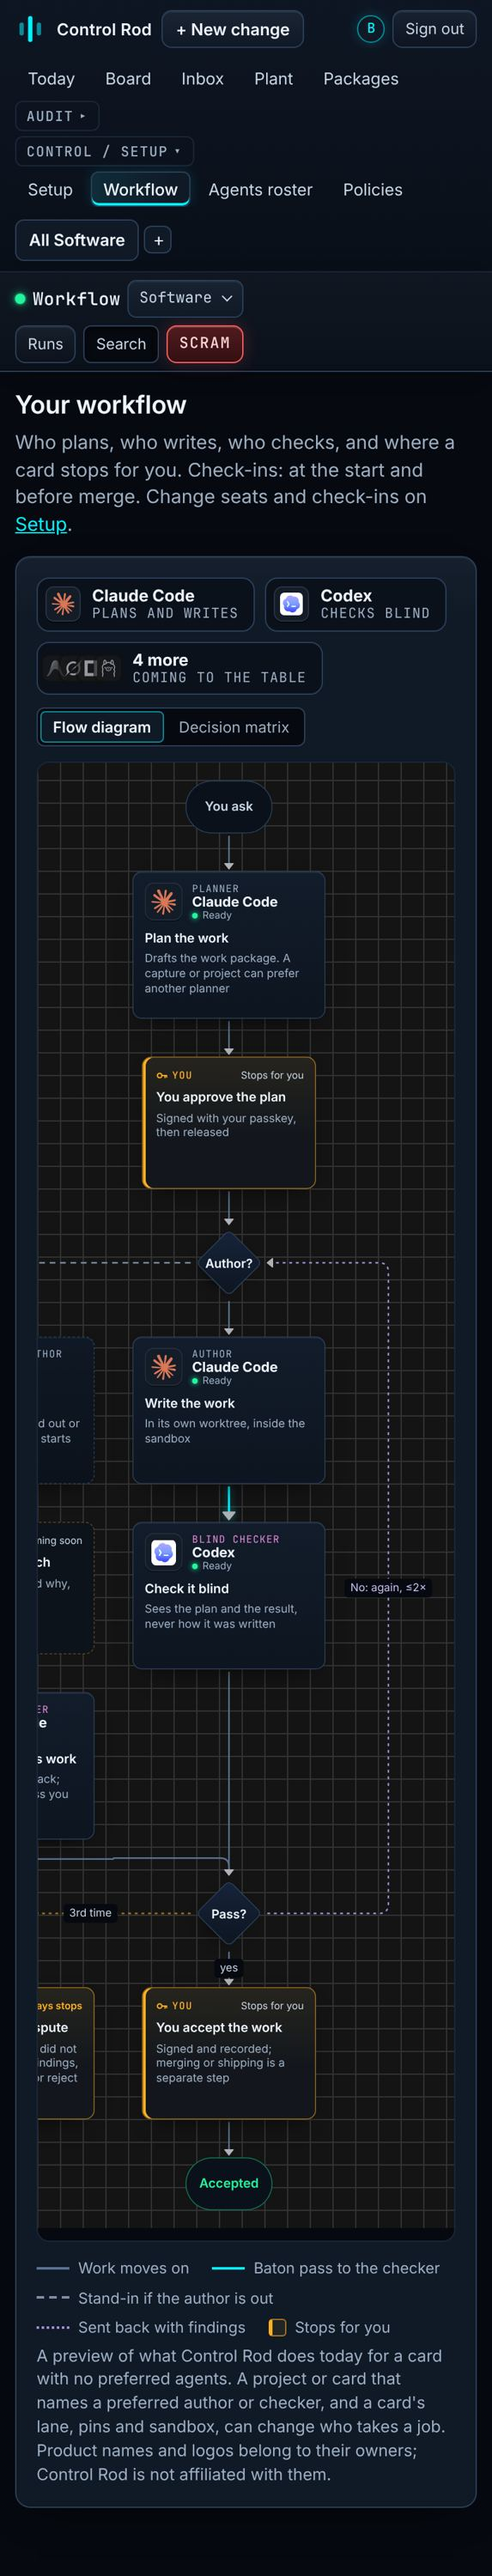
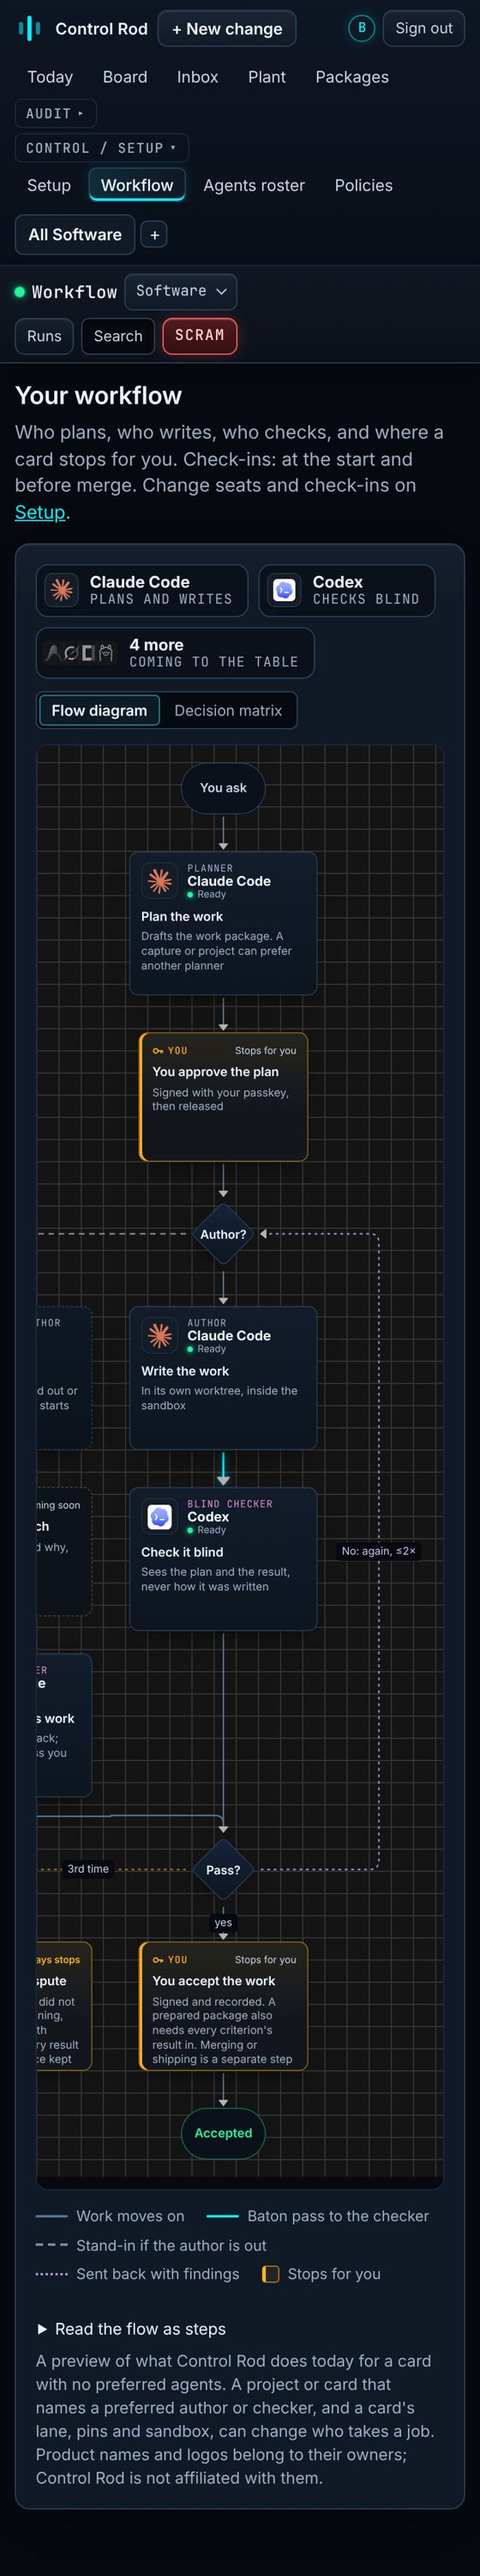
Workflow diagram: round-4 review fixes
Acceptance gates for prepared packages and the limits of accepting with
findings; waits carried into the summary; failed runs after start told
apart from an author out before it; signed release and acceptance named
instead of a merge gate; a visible steps list; the rendered check fails on
a missing block or edge.

Claude-Session: https://claude.ai/code/session_01WRW9hZTgpxiUaaiRC2mRAm

diff --git a/apps/web/src/lib/councilFlow.ts b/apps/web/src/lib/councilFlow.ts
@@ -234,7 +234,7 @@ export function buildCouncilFlow(rows: AgentRow[], checkIn: CheckIn, method?: st
     kind: "you",
     stop: "always",
     title: "You settle the dispute",
-    detail: `After ${CHECK_ROUNDS} checks that did not pass: accept with findings, return to planning or reject`,
+    detail: `After ${CHECK_ROUNDS} checks that did not pass: return to planning, reject, or accept with findings where every result is in and its evidence kept`,
   });
   edge("verdict", "dispute", "no", `${ordinal(CHECK_ROUNDS)} time`);
   steps.push({
@@ -245,7 +245,7 @@ export function buildCouncilFlow(rows: AgentRow[], checkIn: CheckIn, method?: st
     detail:
       checkIn === "start"
         ? "Stays on: skipping it needs a signed standing acceptance, not built yet"
-        : "Signed and recorded; merging or shipping is a separate step",
+        : "Signed and recorded. A prepared package also needs every criterion's result in. Merging or shipping is a separate step",
   });
   edge("verdict", "merge", "yes", "yes");
   steps.push({ id: "ship", kind: "end", title: "Accepted", detail: "Control Rod records your signed acceptance with who wrote, who checked and who signed. Merging or shipping is a separate step you take" });
@@ -260,12 +260,14 @@ export function buildCouncilFlow(rows: AgentRow[], checkIn: CheckIn, method?: st
       who: who(author),
       does: "Produces the deliverable in its own worktree",
       stopsForYou: s.afterAuthor ?? "no",
-      ifItFails: fallback
-        ? `If ${author!.name} is signed out or missing, ${fallback.name} takes the work` +
-          (fallback.ready ? "" : " once it is ready itself") +
-          (fallbackChecker ? "" : `, and its check waits for a vendor other than ${fallback.vendor}`) +
-          ". Logged, flagged fall-over when a run hits its limit is coming."
-        : "The card waits; no other author is seated",
+      ifItFails:
+        (fallback
+          ? `Before it starts: if ${author!.name} is signed out or missing, ${fallback.name} takes the work` +
+            (fallback.ready ? "" : " once it is ready itself") +
+            (fallbackChecker ? "" : `, and its check waits for a vendor other than ${fallback.vendor}`) +
+            ". "
+          : "Before it starts: the card waits; no other author is seated. ") +
+        "Once it has started, a run that fails, stops or loses contact stops for you: requeue it, return it or reject it. Logged, flagged fall-over when a run hits its limit is coming.",
     },
     {
       step: "Check it blind",
@@ -280,28 +282,30 @@ export function buildCouncilFlow(rows: AgentRow[], checkIn: CheckIn, method?: st
             ? `${fallbackChecker.name} checks ${fallback.name}'s work${checksOnReturn ? ` once it is back` : ""}. `
             : `${fallback.name}'s work waits for a vendor other than ${fallback.vendor}. `
           : "") +
-        "A check is never moved to another checker to get a pass.",
+        "A check is never moved to another checker to get a pass. A check run that fails, stops or loses contact stops for you.",
     },
     {
       step: "Settle a dispute",
       who: "you",
       does: `Decides after ${CHECK_ROUNDS} checks that did not pass`,
       stopsForYou: "always",
-      ifItFails: "Accept with findings, return to planning or reject",
+      ifItFails: "Return to planning, reject, or accept with findings; findings can be accepted only where every result is in and its evidence kept",
     },
     {
       step: "Accept the work",
       who: "you",
       does: "Signs acceptance; Control Rod records it. Merging or shipping is a separate step you take",
       stopsForYou: "on",
-      ifItFails: checkIn === "start" ? "Return it or reject it. Skipping this stop needs a signed standing acceptance, which is coming." : "Return it with a note, or reject it",
+      ifItFails:
+        (checkIn === "start" ? "Return it or reject it. Skipping this stop needs a signed standing acceptance, which is coming." : "Return it with a note, or reject it.") +
+        " A pass alone does not clear a prepared package: every criterion needs its result in first.",
     },
     {
       step: "After a fall-back",
       who: "you",
       does: "Sees that another author stepped in",
       stopsForYou: "coming",
-      ifItFails: "Until then you still sign off before merge",
+      ifItFails: "Until then you still sign acceptance on every card",
     },
     { step: "SCRAM or a tripped interlock", who: "you", does: "Stops the affected work", stopsForYou: "always", ifItFails: "Nothing restarts until you reset it" },
     {
@@ -315,11 +319,17 @@ export function buildCouncilFlow(rows: AgentRow[], checkIn: CheckIn, method?: st
 
   const summary = !author
     ? "No agent at the table is ready yet, so new cards wait after you ask."
-    : `You ask, ${author.name} plans, you approve, ${author.name} writes${fallback ? ` (${fallback.name} steps in if it is signed out or missing)` : ""}, ${
+    : `You ask, ${author.name} plans, you approve, ${author.name} writes${
+        fallback ? ` (${fallback.name} steps in if it is signed out or missing${fallback.ready ? "" : ", once it is ready itself"})` : ""
+      }, ${
         checker ? `${checker.name} checks it blind` : "the check waits for a second vendor unless you sign an override"
       }${
-        fallback ? (fallbackChecker ? `, and ${fallbackChecker.name} checks ${fallback.name}'s work` : `, and ${fallback.name}'s work waits for another vendor's check`) : ""
-      }. A fail or an inconclusive verdict starts a new round, with the author picked again, at most ${SEND_BACKS} times; after ${CHECK_ROUNDS} checks that do not pass you settle it. You sign acceptance, and merging or shipping is a separate step.`;
+        fallback
+          ? fallbackChecker
+            ? `, and ${fallbackChecker.name} checks ${fallback.name}'s work${checksOnReturn ? " once it is back" : ""}`
+            : `, and ${fallback.name}'s work waits for another vendor's check`
+          : ""
+      }. A fail or an inconclusive verdict starts a new round, with the author picked again, at most ${SEND_BACKS} times; after ${CHECK_ROUNDS} checks that do not pass you settle it. You sign acceptance (a prepared package also needs every criterion's result in), and merging or shipping is a separate step.`;
 
   return { council, steps, edges, matrix, summary };
 }

diff --git a/apps/web/src/components/WorkflowDiagram.tsx b/apps/web/src/components/WorkflowDiagram.tsx
@@ -105,11 +105,13 @@ export function CouncilStrip({ flow }: { flow: CouncilFlow }) {
   );
 }
 
-/** The flow as text, for screen readers: every step, who takes it, whether it stops, and where it can go next. */
+/** The flow as text, for everyone (keyboard, touch, screen readers): every step, who takes it, whether it stops, and where it can go next. */
 function StepList({ flow }: { flow: CouncilFlow }) {
   const title = (id: string) => flow.steps.find((s) => s.id === id)?.title ?? id;
   return (
-    <ol className="sr-only" aria-label="Workflow steps">
+    <details className="wf-steps">
+      <summary>Read the flow as steps</summary>
+      <ol>
       {flow.steps.map((s) => {
         const next = flow.edges.filter((e) => e.from === s.id);
         return (
@@ -121,7 +123,8 @@ function StepList({ flow }: { flow: CouncilFlow }) {
           </li>
         );
       })}
-    </ol>
+      </ol>
+    </details>
   );
 }
 
@@ -144,7 +147,6 @@ export function WorkflowDiagram({ flow, initialView = "flow" }: { flow: CouncilF
         </div>
       </div>
       <p className="sr-only">{flow.summary}</p>
-      {view === "flow" && <StepList flow={flow} />}
       {view === "flow" ? (
         <>
           <Suspense fallback={<div className="wf-canvas wf-loading" style={{ height: 360 }} aria-hidden="true" />}>
@@ -157,6 +159,7 @@ export function WorkflowDiagram({ flow, initialView = "flow" }: { flow: CouncilF
             <li><span className="wf-key wf-key-sendback" />Sent back with findings</li>
             <li><span className="wf-key wf-key-you" />Stops for you</li>
           </ul>
+          <StepList flow={flow} />
         </>
       ) : (
         <DecisionMatrix flow={flow} />

diff --git a/apps/web/src/lib/councilFlow.test.ts b/apps/web/src/lib/councilFlow.test.ts
@@ -127,6 +127,21 @@ describe("flow", () => {
     expect(f.steps.find((s) => s.id === "fallback")?.seat).toMatchObject({ id: "codex", ready: false });
     expect(f.steps.find((s) => s.id === "fallback")?.detail).toMatch(/until then the card waits/);
     expect(f.steps.find((s) => s.id === "check")?.seat).toBeUndefined();
+    // The summary and the matrix carry the same wait as the diagram.
+    expect(f.summary).toMatch(/Codex steps in if it is signed out or missing, once it is ready itself/);
+    expect(f.matrix.find((r) => r.step === "Write the work")?.ifItFails).toMatch(/once it is ready itself/);
+  });
+
+  it("says a returning author checks the stand-in's work only once it is back, everywhere", () => {
+    const f = buildCouncilFlow(rows({ claude: true, codex: true }), "start-and-merge");
+    expect(f.summary).toMatch(/Claude Code checks Codex's work once it is back/);
+    expect(f.matrix.find((r) => r.step === "Check it blind")?.ifItFails).toMatch(/Claude Code checks Codex's work once it is back/);
+  });
+
+  it("tells a failed run after it starts apart from an author who is out before it starts", () => {
+    const write = buildCouncilFlow(rows({ claude: true, codex: true }), "start-and-merge").matrix.find((r) => r.step === "Write the work")!;
+    expect(write.ifItFails).toMatch(/^Before it starts:/);
+    expect(write.ifItFails).toMatch(/Once it has started, a run that fails, stops or loses contact stops for you/);
   });
 
   it("gives the spend limit its own row, holding new work only", () => {

diff --git a/.nuclear/changes/workflow-diagram/evidence/edges-check.js b/.nuclear/changes/workflow-diagram/evidence/edges-check.js
@@ -63,6 +63,9 @@ const probe = (id, n, f, v) => ({ id, display_name: n, vendor_family: f, install
       return { problems: [...new Set(out)], edges: document.querySelectorAll('.react-flow__edge').length, nodes: nodes.length };
     });
     runs++;
+    // An empty or half-drawn canvas is a failure, not a pass: every step and every edge of the flow must be drawn.
+    const want = ans === 'every-step' ? { nodes: 15, edges: 16 } : { nodes: 13, edges: 14 };
+    if (res.nodes !== want.nodes || res.edges !== want.edges) res.problems.push(`drew ${res.nodes} blocks and ${res.edges} edges, expected ${want.nodes} and ${want.edges}`);
     const tag = `${sc} ${ans} ${w}px: ${res.nodes} blocks, ${res.edges} edges`;
     if (res.problems.length) { bad++; console.log(`FAIL ${tag}\n  ${res.problems.join('\n  ')}`); } else console.log(`ok   ${tag}`);
     await ctx.close();

diff --git a/apps/web/src/components/workflow-diagram.test.tsx b/apps/web/src/components/workflow-diagram.test.tsx
@@ -33,6 +33,15 @@ describe("WorkflowDiagram", () => {
     expect(screen.getByRole("button", { name: "Decision matrix" }).getAttribute("aria-pressed")).toBe("true");
   });
 
+  it("offers the flow as numbered steps that anyone can open", async () => {
+    render(<WorkflowDiagram flow={buildCouncilFlow(rows, "start-and-merge")} />);
+    const toggle = screen.getByText("Read the flow as steps");
+    expect(toggle.tagName).toBe("SUMMARY");
+    await userEvent.click(toggle);
+    expect(toggle.closest("details")?.open).toBe(true);
+    expect(screen.getByText(/Check it blind, Codex/)).toBeTruthy();
+  });
+
   it("has a mark for every built-in agent, served from the app", () => {
     for (const a of AGENTS) {
       expect(AGENT_MARKS[a.id].src).toMatch(/^\/agent-marks\/[a-z]+\.svg$/);

diff --git a/apps/web/src/pages/setup.test.tsx b/apps/web/src/pages/setup.test.tsx
@@ -111,7 +111,7 @@ describe("first-run setup", () => {
     await user.click(screen.getByRole("radio", { name: /Just at the start/ }));
     const back = screen.getByRole("region", { name: "Here's what you're setting up" });
     expect(within(back).getByText(/No agent at the table can work yet/)).toBeTruthy();
-    expect(within(back).getByText(/Check-in preference: just at the start\. Today every card still stops at the start and before merge\./)).toBeTruthy();
+    expect(within(back).getByText(/Check-in preference: just at the start\. Today every card still stops for your signed release at the start and your signed acceptance at the end\./)).toBeTruthy();
     expect(screen.getByText(/Saved for when check-in points arrive/)).toBeTruthy();
     expect(sent).toHaveLength(0);
 

diff --git a/apps/web/src/components/workflow.css b/apps/web/src/components/workflow.css
@@ -502,3 +502,9 @@
   outline: 2px solid var(--accent);
   outline-offset: 2px;
 }
+
+/* The flow as numbered steps, open to everyone: keyboard, touch and screen readers. */
+.wf-steps { margin-top: 10px; font-size: 13px; color: var(--muted, #9aa7b4); }
+.wf-steps > summary { cursor: pointer; width: fit-content; padding: 4px 2px; color: var(--text, #e6edf3); }
+.wf-steps > summary:focus-visible { outline: 2px solid var(--accent, #36c5d8); outline-offset: 2px; border-radius: 4px; }
+.wf-steps ol { margin: 8px 0 0; padding-left: 22px; display: grid; gap: 6px; line-height: 1.45; }

diff --git a/apps/web/src/pages/Setup.tsx b/apps/web/src/pages/Setup.tsx
@@ -81,7 +81,7 @@ export function Setup() {
         <p>{readBack(rows)}</p>
         <p>
           Check-in preference: {choice.label.toLowerCase()}.
-          {!choice.today && " Today every card still stops at the start and before merge."}
+          {!choice.today && " Today every card still stops for your signed release at the start and your signed acceptance at the end."}
         </p>
         {!agents.loading && <WorkflowDiagram flow={buildCouncilFlow(rows, chosenCheckIn)} />}
         {agents.save.error && (

diff --git a/.nuclear/changes/workflow-diagram/verification.md b/.nuclear/changes/workflow-diagram/verification.md
@@ -2,12 +2,13 @@
 
 | Evidence ID | Status | Claim and limit | Artifact |
 |---|---|---|---|
-| E-01 | pass | Web: all tests (863), `tsc` clean, build, license gate. | `evidence/web.log` |
+| E-01 | pass | Web: all tests (867), `tsc` clean, build, license gate. | `evidence/web.log` |
 | E-02 | pass | Screenshots from the dev server with a mocked API: Workflow at 1440 (flow, matrix, every-step with Codex not ready), Setup read-back at 1440, phone at 390. | `evidence/*.jpg` |
 | E-03 | done | Blind review by Codex (gpt-6.2-sol, read-only) on the owner's machine at 7f8fb48: NO-MERGE with 3 P1 and 7 P2. Fixed at the next commit: sign-off shown on in every answer (skipping needs a signed standing acceptance); the stand-in's work goes to its own check node that never uses the stand-in's vendor or the author it replaced, and waits when nobody qualifies; no stand-in when nobody is ready; fall-over wording limited to what the dispatcher does (signed out or missing; flagged fall-over is "coming"); Lobe Icons' full MIT license served beside the marks; preferred-agent caveat on the page; send-back count corrected to 2 (MAX_ROUNDS counts the first attempt); spend limit split from SCRAM as a hold on new work; the canvas remounts when the layout changes; a too-wide canvas is a labelled focusable region and opens scrolled to the main line on a phone; a screen-reader step list covers branches and stops; tests for every answer, no one ready, offline and benched alternatives, and layout across 24 roster/answer/direction cases. Not changed: the owner chose real marks (basis 5); React Flow and dagre notices follow the repo's dependency policy (lockfile and the release SBOM). | PR thread |
 | E-04 | done | Blind review by Codex round 2 at the round-1 fix commit: NO-MERGE with 1 P1, 8 P2, 1 P3. Fixed: the stand-in's check may be the returning author (no longer excluded); an offline stand-in waits until ready; the planner caveat (a capture or project can prefer another planner); retry wording no longer fixes author and checker; a "You see the switch" stop on the stand-in path, and every-step stops say "on every path"; the end is "Accepted" (acceptance records the decision, it does not merge); spend limit belongs to Control Rod and is "coming"; the matrix is a focusable scroll region; the built app ships `third-party-licenses.md` (Vite `build.license`); the phone send-back label is shorter. dagre was dropped for a lane layout so the main line has no gaps. | PR thread |
 | E-05 | done | Blind review by Codex round 3 at 5b7c64a: NO-MERGE with 1 P1, 4 P2, 1 P3. Fixed: branches leave toward their lane and rejoin the main line through a clear gap the layout keeps before the block they join, and the send-back loop clears the tallest block (P1, checked by E-06); every-step stops cover every path (the stand-in's stop shows its work, and "You see the check" sits before the verdict on both checks); a new round goes back to an "Author?" pick, since the dispatcher picks the author again at each claim; the matrix and summary say independence is the default with a signed override, who checks the stand-in's work, and that a fail or an inconclusive verdict both retry; acceptance copy says Control Rod records it and merging or shipping is a separate step. | PR thread |
 | E-06 | pass | Rendered check in Chromium: no edge runs through a block other than its ends, no label overlaps a block or another label, no blocks overlap; 3 rosters x 3 check-in answers x 3 widths (1440, 1024, 390), both directions. Mocked API. | `evidence/edges.log`, `evidence/edges-check.js` |
+| E-07 | done | Blind review by Codex round 4 at 5657fd8: NO-MERGE with 1 P1, 4 P2, 1 P3, all new; E-03 to E-06 held. Fixed: acceptance says a pass alone does not clear a prepared package (every criterion's result must be in) and accepting with findings only covers results that are in with evidence kept; the summary carries the stand-in's and returning author's waits; the matrix tells an author who is out before the run from a run that fails, stops or loses contact after it starts (that stops for you); Setup and the matrix name the live stops as signed release and signed acceptance, not a merge gate; the flow is also a visible "Read the flow as steps" list that keyboard and touch can open; the rendered check fails if any block or edge is missing. | PR thread |
 
 ## Evidence custody and coupling
 
